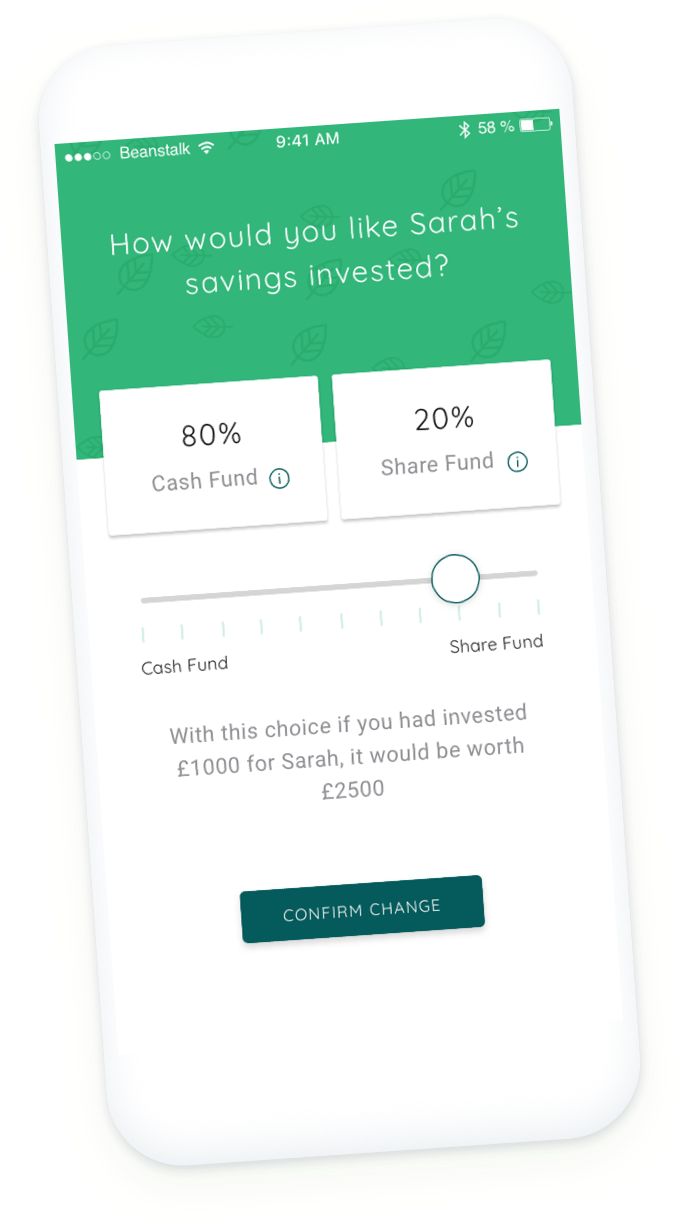
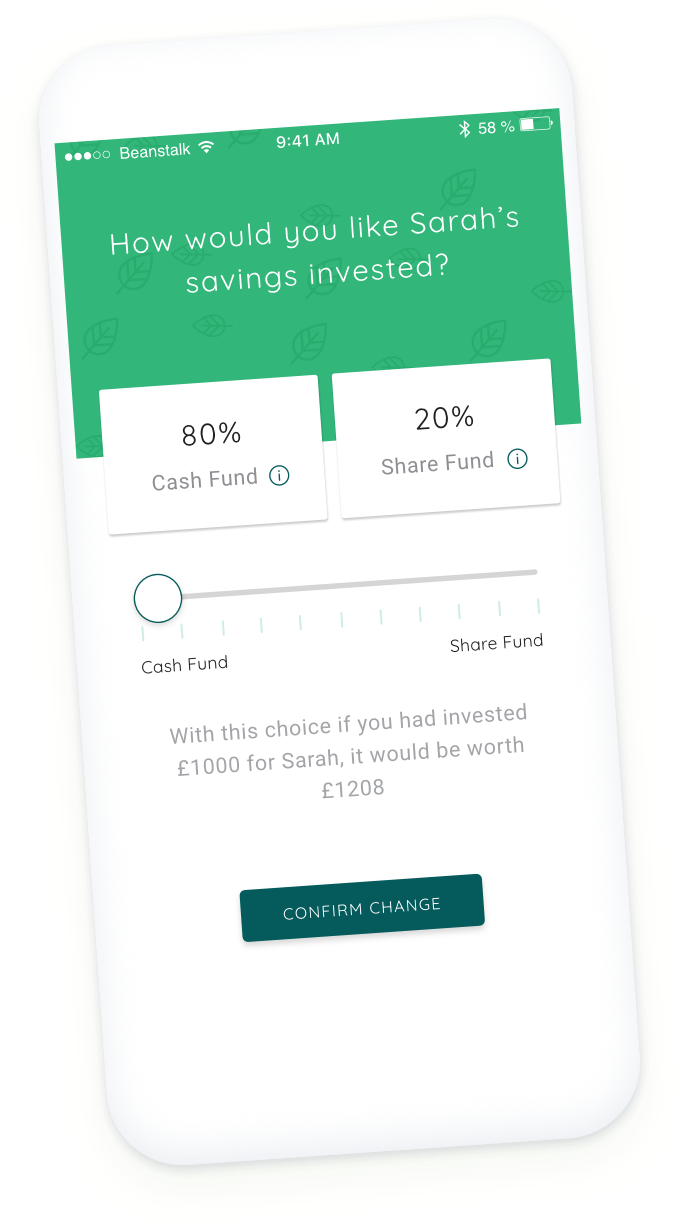
Update

diff --git a/src/components/features-page/features-page.js b/src/components/features-page/features-page.js
@@ -91,8 +91,8 @@ class AllocationCalculatorModule extends Component {
             onChange={this.fundHandler}
             className={AllocationCalculator.Slider}
             step={10}
-            max={80}
-            min={0}
+            max={100}
+            min={20}
             thumbClassName={AllocationCalculator.Slider_Thumb}
             trackClassName={AllocationCalculator.Slider_Track}
             renderThumb={(props, state) => <div {...props}></div>}
@@ -127,7 +127,7 @@ class AllocationCalculatorModule extends Component {
           </div>
         </div>
         <div className={AllocationCalculator.Results}>
-          With this choice if you had invested <strong>£1000</strong> for Sarah, it would be worth <strong>{`£${this.numbers(this.state.fundBalance)}`}</strong>
+          With this choice if you had invested <strong>£1000</strong> for Sarah, it would be worth <strong>{`£${this.numbers(100 - this.state.fundBalance)}`}</strong>
         </div>
       </div>
     );
@@ -194,7 +194,7 @@ const FeaturesPage = () => {
                 </div>
               </div>
               <div className={`${Layout.Column} ${Layout.Column___Gap} ${Layout.Column___Graphic}`}>
-                <img className={`${Graphics.Graphic} ${Graphics.Graphic___SubSection} ${Graphics.Graphic___TopOffSetAtMobile} ${Graphics.Graphic___linkFamilyAndFriends}`} src={linkFamilyAndFriends} width="379" height="453"/>
+                <img className={`${Graphics.Graphic} ${Graphics.Graphic___SubSection} ${Graphics.Graphic___TopOffSetAtMobile} ${Graphics.Graphic___linkFamilyAndFriends}`} src={linkFamilyAndFriends} width="376" height="456"/>
               </div>
             </section>
           </div>
@@ -214,7 +214,7 @@ const FeaturesPage = () => {
           <div className={Layout.Sizer}>
             <section className={`${Layout.Row} ${Layout.Row___SubSections}`}>
               <div className={`${Layout.Column} ${Layout.Column___Gap} ${Layout.Column___Graphic}`}>
-                <img className={`${Graphics.Graphic} ${Graphics.Graphic___SubSection} ${Graphics.Graphic___TopOffSetAtMobile} ${Graphics.Graphic___swapMessages}`} src={swapMessages} width="335" height="485"/>
+                <img className={`${Graphics.Graphic} ${Graphics.Graphic___SubSection} ${Graphics.Graphic___TopOffSetAtMobile} ${Graphics.Graphic___swapMessages}`} src={swapMessages} width="319" height="464"/>
               </div>
               <div className={`${Layout.Column} ${Layout.Column___Gap} ${Layout.Column___Text}`}>
                 <div className={`${TextBlock.Container} ${TextBlock.___SubSection___Last} ${TextBlock.___SubSection___Right} ${TextBlock.___SubSection}`}>
@@ -222,7 +222,7 @@ const FeaturesPage = () => {
                     Swap messages
                   </h2>
                   <p className={TextBlock._Content}>
-                    Send messages with your gifts of money so they know what it's for!
+                    Send messages with your gifts of<br className={Utilities.BreakAtTablet}/> money so they know what it's for!
                   </p>
                 </div>
               </div>
@@ -463,7 +463,7 @@ const FeaturesPage = () => {
             </div>
 
             <div className={`${LinkedBullets.LinkedBullet} ${LinkedBullets.LinkedBullet___Last}`}>
-              <div className={`${LinkedBullets.LinkedBullet_Roundel} ${LinkedBullets.LinkedBullet_Roundel___last}`}>
+              <div className={`${LinkedBullets.LinkedBullet_Roundel} ${LinkedBullets.LinkedBullet_Roundel___Last}`}>
                 <img src={primaryTickIcon} width="16" height="12"/>
               </div>
               <div className={LinkedBullets.LinkedBullet_content}>
@@ -491,12 +491,12 @@ const FeaturesPage = () => {
           </h2>
 
           <div className={AppBadges.Container}>
-            <div className={`${AppBadges._BadgeWrapper} ${AppBadges._BadgeWrapper___first}`}>
+            <div className={`${AppBadges._BadgeWrapper} ${AppBadges._BadgeWrapper___First}`}>
               <a href="https://apps.apple.com/gb/app/beanstalk-save-invest/id1470619597" target="_blank">
                 <img className={AppBadges._Badge} src={appStoreBadge} width="135" height="40" alt="Apple app store badge"/>
               </a>
             </div>
-            <div className={`${AppBadges._BadgeWrapper} ${AppBadges._BadgeWrapper___last}`}>
+            <div className={`${AppBadges._BadgeWrapper} ${AppBadges._BadgeWrapper___Last}`}>
               <a href="https://play.google.com/store/apps/details?id=com.beanstalk" target="_blank">
                 <img className={AppBadges._Badge} src={googlePlayBadge} width="135" height="40" alt="Google Play store badge"/>
               </a>
@@ -509,7 +509,7 @@ const FeaturesPage = () => {
 
         <section>
           <p className={TextBlock.SmallPrint}>
-            AS WITH ANY INVESTMENT THE VALUE CAN GO DOWN AS WELL AS UP. PAST PERFORMANCE IS NO INDICATOR OF FUTURE PERFORMANCE. THE TAX TREATMENT OF ISAS DEPENDS ON YOUR INDIVIDUAL CIRCUMSTANCES AND MAY BE SUBJECT TO CHANGE IN THE FUTURE.
+            AS WITH ANY INVESTMENT THE VALUE CAN GO DOWN AS WELL AS UP. PAST PERFORMANCE IS NO INDICATOR OF FUTURE PERFORMANCE.<br className={Utilities.BreakAtDesktop}/> THE TAX TREATMENT OF ISAS DEPENDS ON YOUR INDIVIDUAL CIRCUMSTANCES AND MAY BE SUBJECT TO CHANGE IN THE FUTURE.
           </p>
           <p className={TextBlock.SmallPrint}>
             *JUST £10 FOR AN ADULT ACCOUNT

diff --git a/src/components/features-page/graphics.module.scss b/src/components/features-page/graphics.module.scss
@@ -1,10 +1,12 @@
 .Graphic {
   display: block;
-  height: auto;
   @media (max-width: $breakpoint-sm - .0625em) {
     margin-right: auto;
     margin-bottom: $base-unit * 6;
     margin-left: auto;
+  }
+  @media (max-width: $breakpoint-md - .0625em) {
+    height: auto;
   }
 }
 
@@ -28,7 +30,7 @@
   */
   @media (min-width: $breakpoint-sm) and (max-width: $breakpoint-md - .0625em){
     //max-width: 16rem;
-    margin-left: $base-unit * 3
+    margin-left: $base-unit * 3;
   }
   @media (min-width: $breakpoint-md) {
     margin-left: $base-unit * 7 + $base-unit / 4;
@@ -37,10 +39,11 @@
 
 .Graphic___linkFamilyAndFriends {
   @media (max-width: $breakpoint-sm - .0625em) {
-    width: 17.25rem;
+    width: $base-unit * 36;
   }
   @media (min-width: $breakpoint-sm) and (max-width: $breakpoint-md - .0625em){
-    width: 18.3125rem;
+    width: $base-unit * 35;
+    margin-left: $base-unit * 2;
   }
   @media (min-width: $breakpoint-md) {
     margin-right: $base-unit * 4;
@@ -48,11 +51,13 @@
 }
 
 .Graphic___swapMessages {
-  @media (max-width: $breakpoint-sm - .0625em) {
-    width: 17.25rem;
+  @media (max-width: $breakpoint-md - .0625em) {
+    width: $base-unit * 36;
   }
   @media (min-width: $breakpoint-sm) and (max-width: $breakpoint-md - .0625em){
-    width: 17.5rem;
+    margin-left: $base-unit * 6;
+  }
+  @media (min-width: $breakpoint-sm) and (max-width: $breakpoint-md - .0625em){
     margin-left: $base-unit * 6;
   }
   @media (min-width: $breakpoint-md) {

diff --git a/src/components/features-page/dividers.module.scss b/src/components/features-page/dividers.module.scss
@@ -26,7 +26,7 @@
   width: 100%;
   height: $base-unit * 4;
   overflow: hidden;
-  opacity: 0.5;
+  opacity: .5;
   @media (min-width: $breakpoint-sm) {
     height: $base-unit * 8;
   }
@@ -41,12 +41,12 @@
     width: 100%;
     display: inline-block;
     position: relative;
-    box-shadow: 0 -3px 34px 0 rgba(50,182,122,20);
+    box-shadow: 0 -.1875rem 2.125rem 0 rgba(50,182,122,20);
     content: '';
     @media (min-width: $breakpoint-sm) {
       top: -$base-unit * 3;
       height: $base-unit * 3;
-      box-shadow: 0 -3px 44px 0 rgba(50,182,122,20);
+      box-shadow: 0 -.1875rem 2.75rem 0 rgba(50,182,122,20);
     }
     @media (min-width: $breakpoint-md) {
       top: -$base-unit * 4;

diff --git a/src/components/cookies-notice/cookies-notice.module.scss b/src/components/cookies-notice/cookies-notice.module.scss
@@ -5,6 +5,7 @@
   padding-left: $base-unit * 2;
   margin-right: auto;
   margin-left: auto;
+  display: inline-block;
   color: $white;
   background-color: $primary;
   border-radius: 1.5rem 1.5rem 0 0;
@@ -54,13 +55,12 @@
 
 .CookiesNotice_wrapper {
   z-index: 1;
-  justify-content: center;
-  display: flex;
   bottom: 0;
   position: fixed;
   width: 100%;
   padding-right: $base-unit * 2;
   padding-left: $base-unit * 2;
+  text-align: center;
 }
 
 .CookiesNotice___hidden {

diff --git a/gatsby-config.js b/gatsby-config.js
@@ -4,6 +4,7 @@ module.exports = {
     title: `Beanstalk`,
     description: `Beanstalk's Microsite`,
     author: `James Barrett`,
+    logoUrl: `https://beanstalkapp.co.uk/static/images/beanstalk-icon.png`,
     footer: {
       companyRegistration: `© Copyright Beanstalk Ltd 2019, all rights reserved. Company registration number 7652431. `,
       companyAuthorised: `Authorised and regulated by the Financial Conduct Authority - Authorisation no. 473606.`,

diff --git a/src/components/features-page/app-badges.module.scss b/src/components/features-page/app-badges.module.scss
@@ -13,13 +13,13 @@
 }
 
 ._BadgeWrapper {
-  &___first {
+  &___First {
     margin-right: $base-unit;
     @media (min-width: $breakpoint-sm) {
       margin-right: .75rem;
     }
   }
-  &___last {
+  &___Last {
     margin-left: $base-unit;
     @media (min-width: $breakpoint-sm) {
       margin-left: .75rem;

diff --git a/src/components/features-page/linked-bullets.module.scss b/src/components/features-page/linked-bullets.module.scss
@@ -62,7 +62,11 @@
   }
 }
 
-.LinkedBullet_Roundel___last {
+.LinkedBullet_Roundel_Wrapper {
+  position: relative;
+}
+
+.LinkedBullet_Roundel___Last {
   &:after {
     content: none
   }

diff --git a/src/content/faqs/faq-29.md b/src/content/faqs/faq-29.md
@@ -19,9 +19,9 @@ We will notify you by email 5 working days in advance of a new regular contribut
 
 ### One off top ups
 
-We typically collect one off top ups weekly on Wednesdays. If the Wednesday clashes with a public holiday, then the collection date will be the first working day after.
+We typically collect one off top ups weekly on Mondays. If the Monday clashes with a public holiday, then the collection date will be the first working day after.
 
-We send payment instructions to the bank 5 working days in advance. This means that if you request a top up, we will collect it on Wednesday week after you requested the top up.
+We send payment instructions to the bank 5 working days in advance. This means that if you request a top up, we will collect it on Monday week after you requested the top up.
 
 We will confirm your top up to you by email 5 working days in advance of collection so you know the exact day it is going.
 
